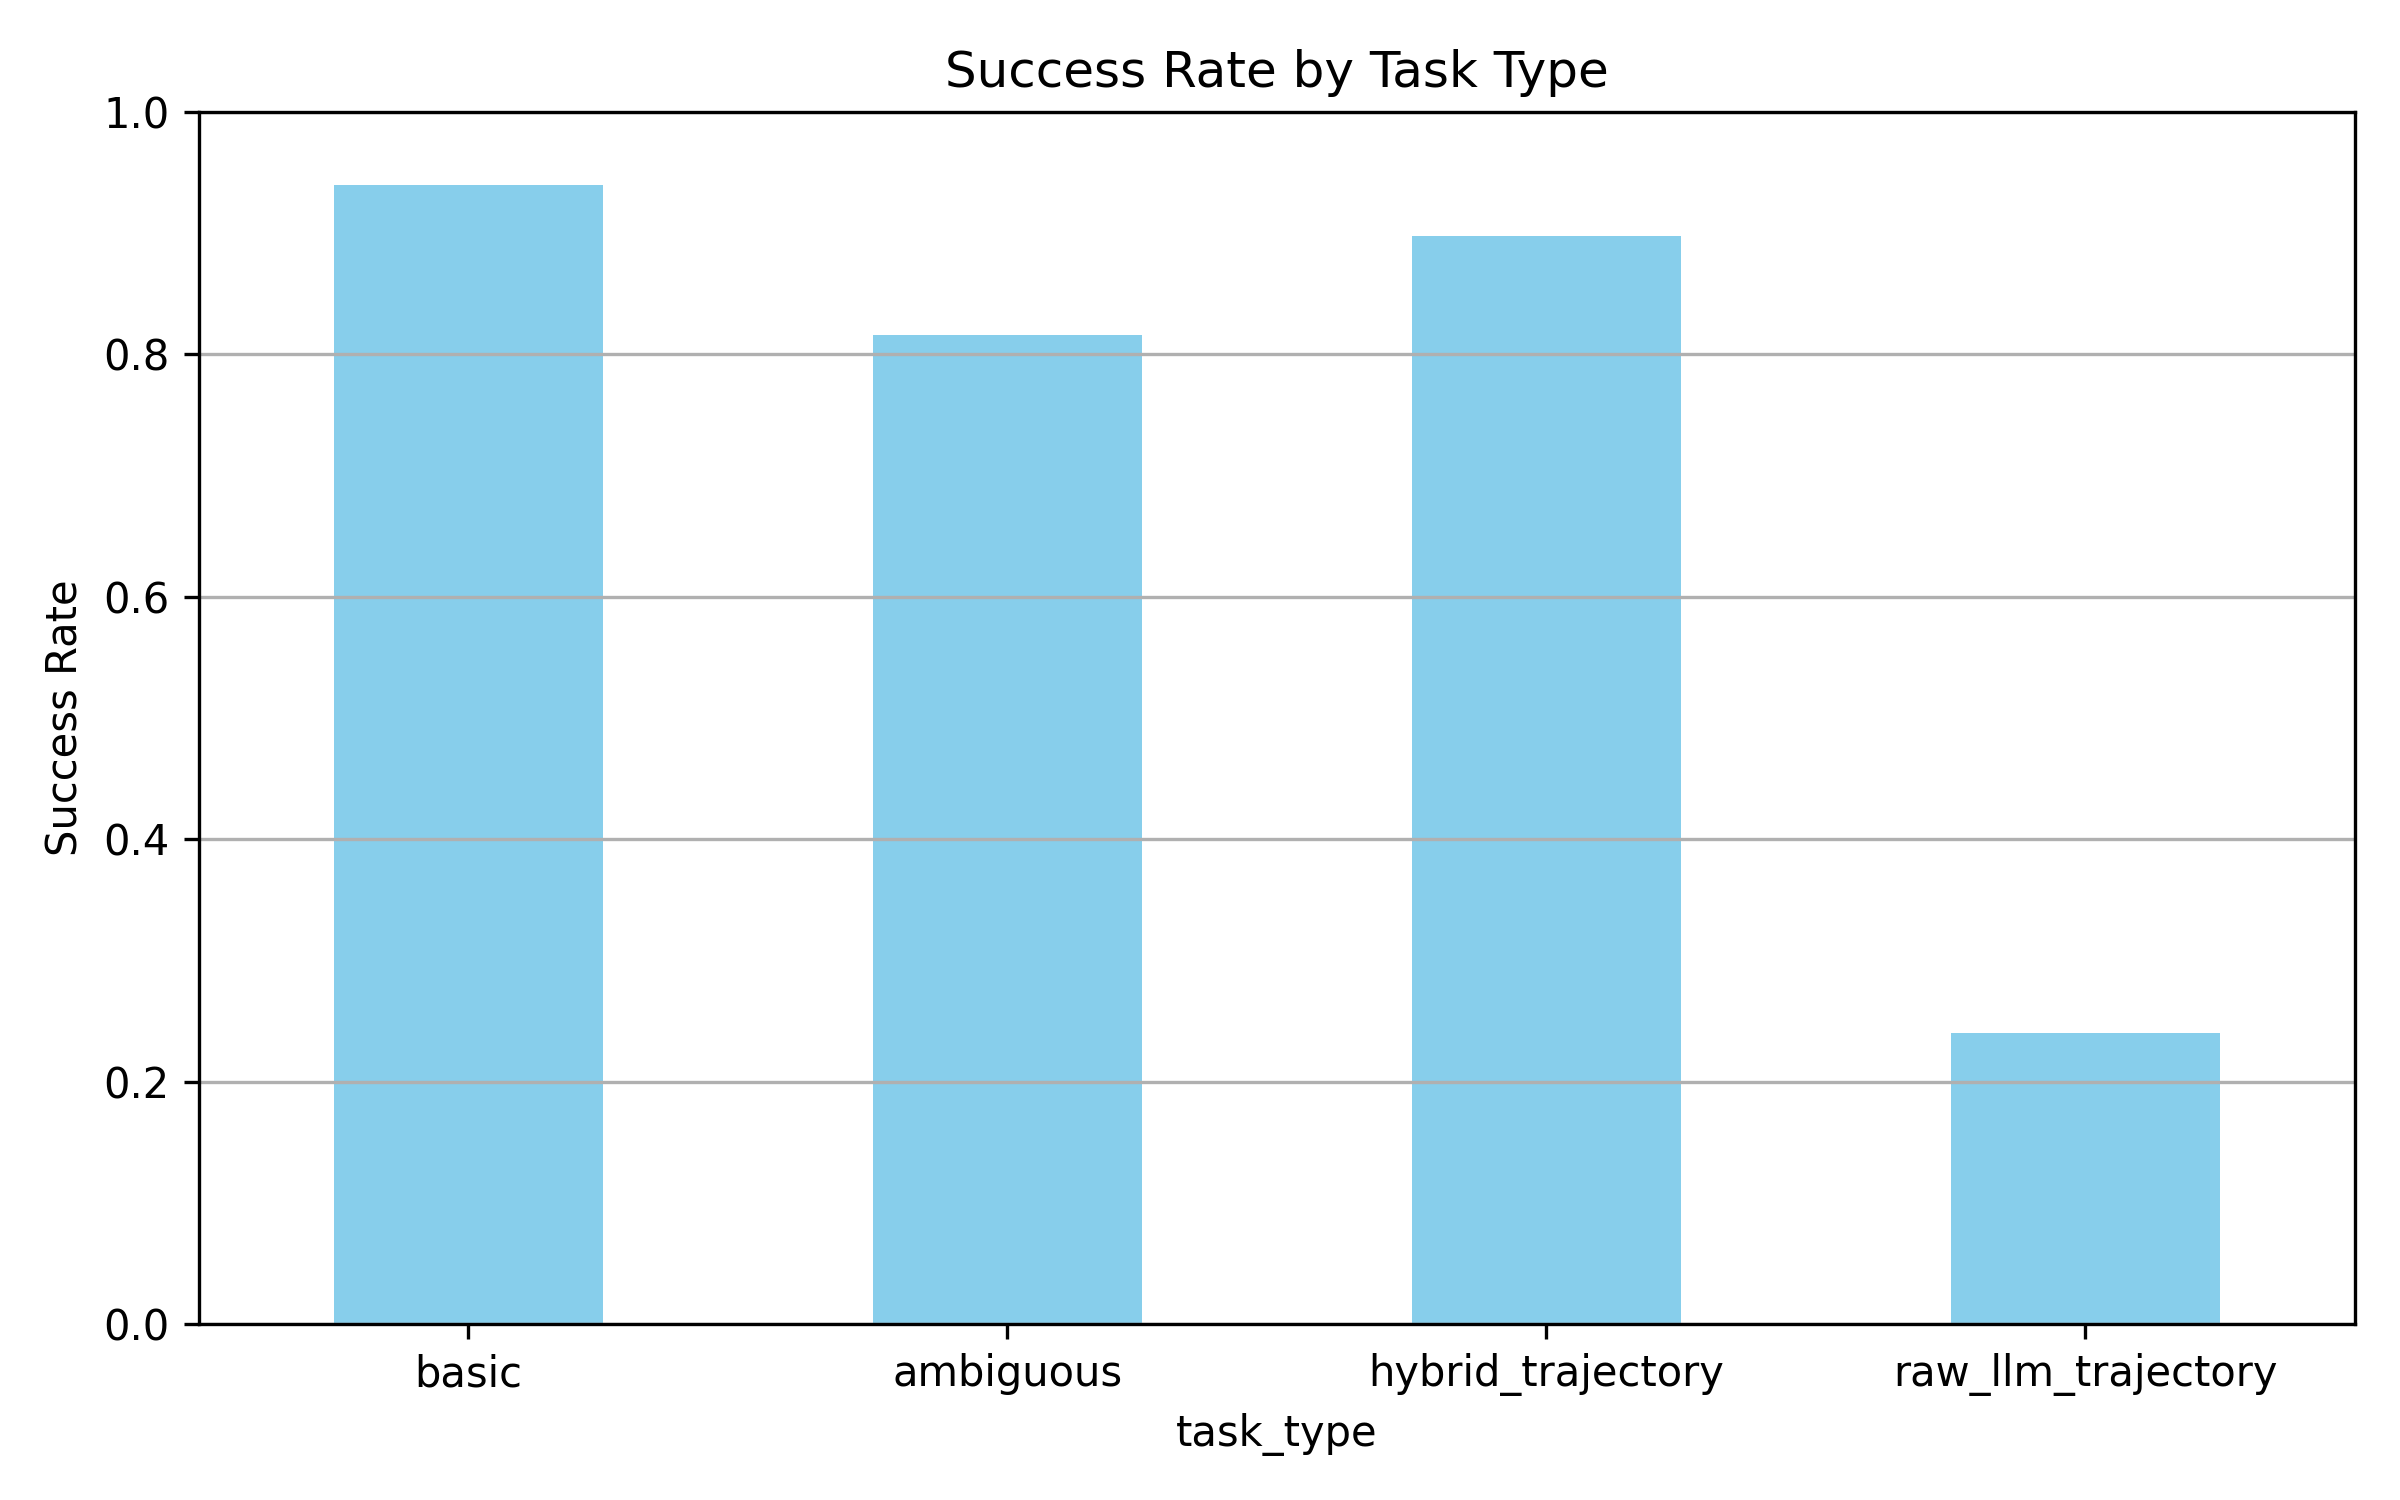
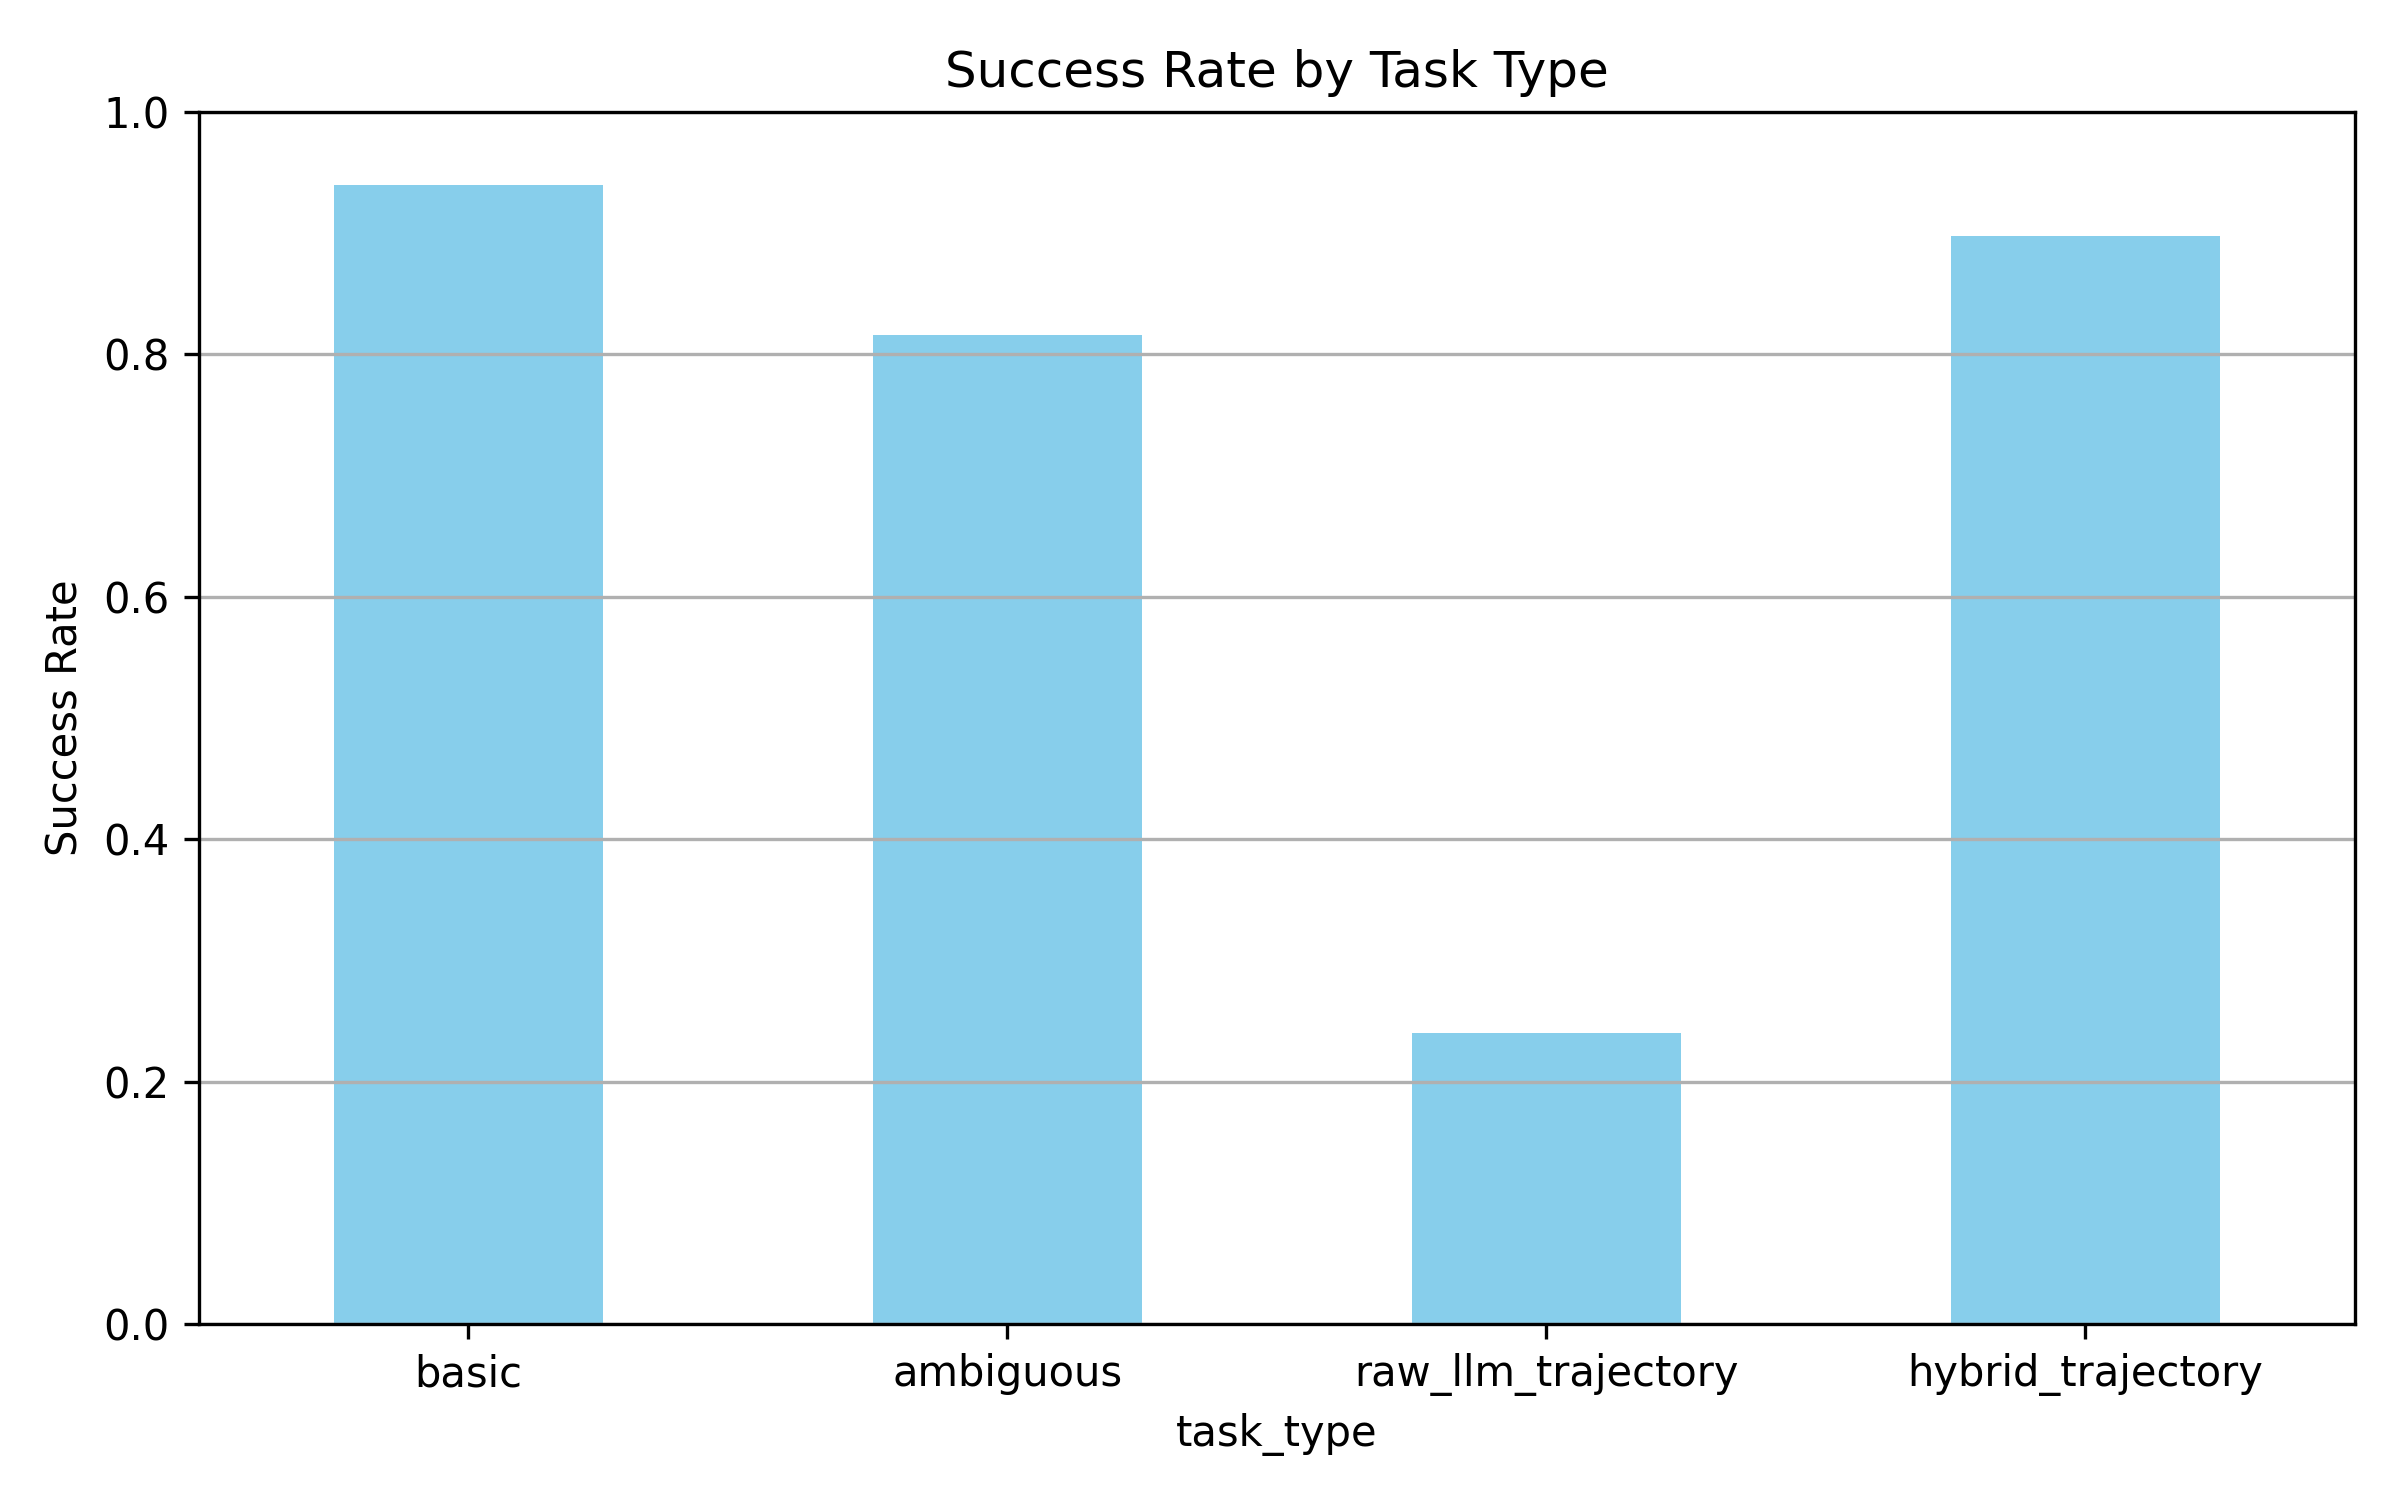
update the phase 1 success rate plot

diff --git a/myCode/my_planning_app/logs/success_rate_plot.py b/myCode/my_planning_app/logs/success_rate_plot.py
@@ -3,70 +3,74 @@ import json
 import pandas as pd
 import matplotlib.pyplot as plt
 
-# Setup
-log_dir = Path("/home/jingyang/robosuite/myCode/my_planning_app/logs")
-valid_prefixes = ("ambiguous", "basic", "trajectory")
-target_suffix = "evaluated"
-results = []
+def plot_success_rate(phase: str = "phase_1"):
+    # Setup
+    log_dir = Path("/home/jingyang/robosuite/myCode/my_planning_app/logs")
+    valid_prefixes = ("ambiguous", "basic", "trajectory")
+    target_suffix = "evaluated"
+    results = []
 
-# Recursively find relevant evaluated JSONs
-json_paths = [
-    p for p in log_dir.rglob("*.json")
-    if p.name.startswith(valid_prefixes) and p.stem.endswith(target_suffix)
-]
+    # Recursively find relevant evaluated JSONs
+    json_paths = [
+        p for p in log_dir.rglob("*.json")
+        if p.name.startswith(valid_prefixes) and p.stem.endswith(target_suffix)
+    ]
 
-# Extract task_type and success_status
-for path in json_paths:
-    try:
-        with open(path, "r") as f:
-            data = json.load(f)
-            task_type = data.get("task_type", "unknown")
-            status = data.get("success_status", "unknown")
-            if task_type in valid_prefixes and status in ("success", "failure"):
-                # Rename 'trajectory' → 'hybrid_trajectory'
-                if task_type == "trajectory":
-                    task_type = "hybrid_trajectory"
-                results.append({"task_type": task_type, "status": status})
-    except Exception as e:
-        print(f"Failed to process {path.name}: {e}")
+    # Extract task_type and success_status
+    for path in json_paths:
+        try:
+            with open(path, "r") as f:
+                data = json.load(f)
+                task_type = data.get("task_type", "unknown")
+                status = data.get("success_status", "unknown")
+                if task_type in valid_prefixes and status in ("success", "failure"):
+                    # Rename 'trajectory' → 'hybrid_trajectory'
+                    if task_type == "trajectory":
+                        task_type = "hybrid_trajectory"
+                    results.append({"task_type": task_type, "status": status})
+        except Exception as e:
+            print(f"Failed to process {path.name}: {e}")
 
-# Convert to DataFrame
-df = pd.DataFrame(results)
+    # Convert to DataFrame
+    df = pd.DataFrame(results)
 
-# Compute success rate
-summary = df.groupby("task_type")["status"].value_counts().unstack().fillna(0)
-summary["total"] = summary.sum(axis=1)
-summary["success_rate"] = summary["success"] / summary["total"]
+    # Compute success rate
+    summary = df.groupby("task_type")["status"].value_counts().unstack().fillna(0)
+    summary["total"] = summary.sum(axis=1)
+    summary["success_rate"] = summary["success"] / summary["total"]
 
-# Add synthetic data for 'raw_llm_trajectory' with ~20% success rate
-raw_success = 6
-raw_total = 25
-raw_failure = raw_total - raw_success
-summary.loc["raw_llm_trajectory"] = {
-    "failure": raw_failure,
-    "success": raw_success,
-    "total": raw_total,
-    "success_rate": raw_success / raw_total,
-}
+    # Add synthetic data for 'raw_llm_trajectory' with ~20% success rate
+    raw_success = 6
+    raw_total = 25
+    raw_failure = raw_total - raw_success
+    summary.loc["raw_llm_trajectory"] = {
+        "failure": raw_failure,
+        "success": raw_success,
+        "total": raw_total,
+        "success_rate": raw_success / raw_total,
+    }
 
-# Reorder rows for plotting
-desired_order = ["basic", "ambiguous", "hybrid_trajectory", "raw_llm_trajectory"]
-summary = summary.loc[desired_order]
+    # Reorder rows for plotting
+    desired_order = ["basic", "ambiguous", "raw_llm_trajectory", "hybrid_trajectory"]
+    summary = summary.loc[desired_order]
 
-# Print results
-print(summary[["success", "failure", "total", "success_rate"]].sort_index())
+    # Print results
+    print(summary[["success", "failure", "total", "success_rate"]].sort_index())
 
-# Plot
-summary["success_rate"].plot(kind="bar", color="skyblue", figsize=(8, 5))
-plt.title("Success Rate by Task Type")
-plt.ylabel("Success Rate")
-plt.ylim(0, 1)
-plt.xticks(rotation=0)
-plt.grid(True, axis='y')
-plt.tight_layout()
+    # Plot
+    summary["success_rate"].plot(kind="bar", color="skyblue", figsize=(8, 5))
+    plt.title("Success Rate by Task Type")
+    plt.ylabel("Success Rate")
+    plt.ylim(0, 1)
+    plt.xticks(rotation=0)
+    plt.grid(True, axis='y')
+    plt.tight_layout()
 
-# Save plot
-plot_path = log_dir / "plots" / "phase" / "llm_success_rate_by_task.png"
-plt.savefig(plot_path, dpi=300)
-print(f"Plot saved to {plot_path}")
-plt.show()
+    # Save plot
+    plot_path = log_dir / "plots" / phase / "llm_success_rate_by_task.png"
+    plt.savefig(plot_path, dpi=300)
+    print(f"Plot saved to {plot_path}")
+    plt.show()
+
+if __name__ == "__main__":
+    plot_success_rate("phase_1")
